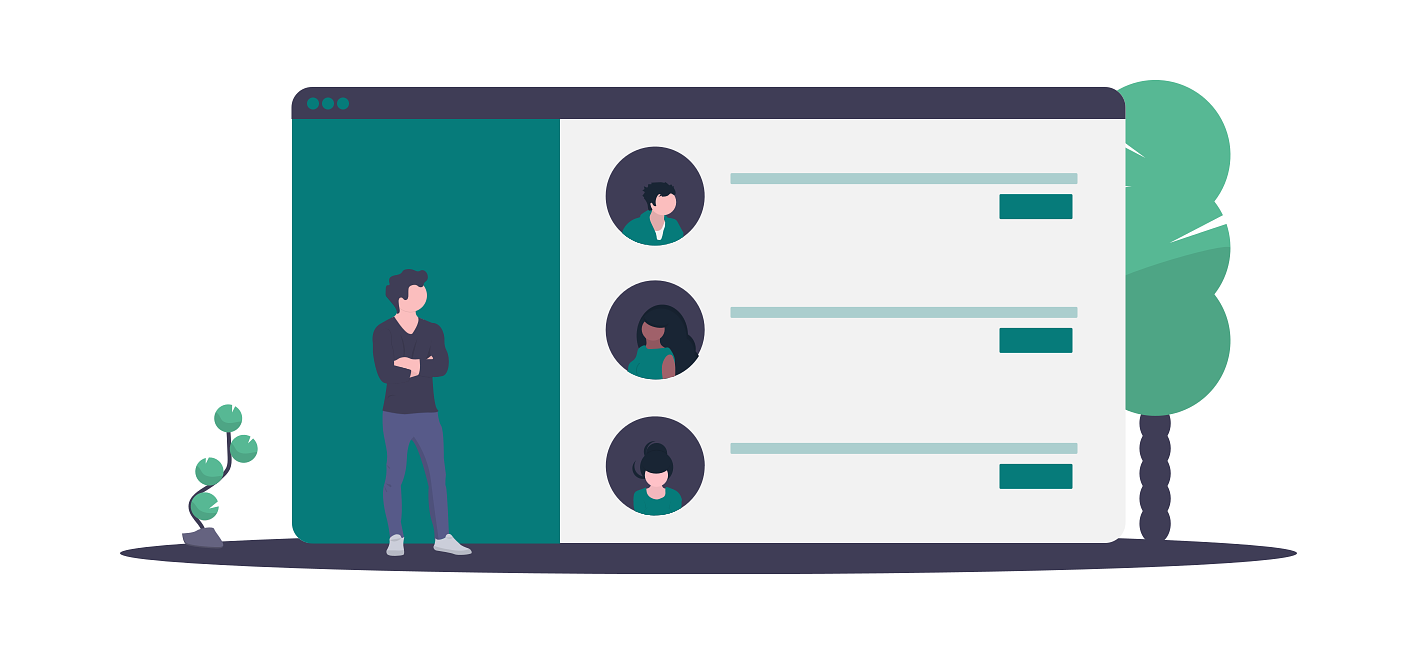
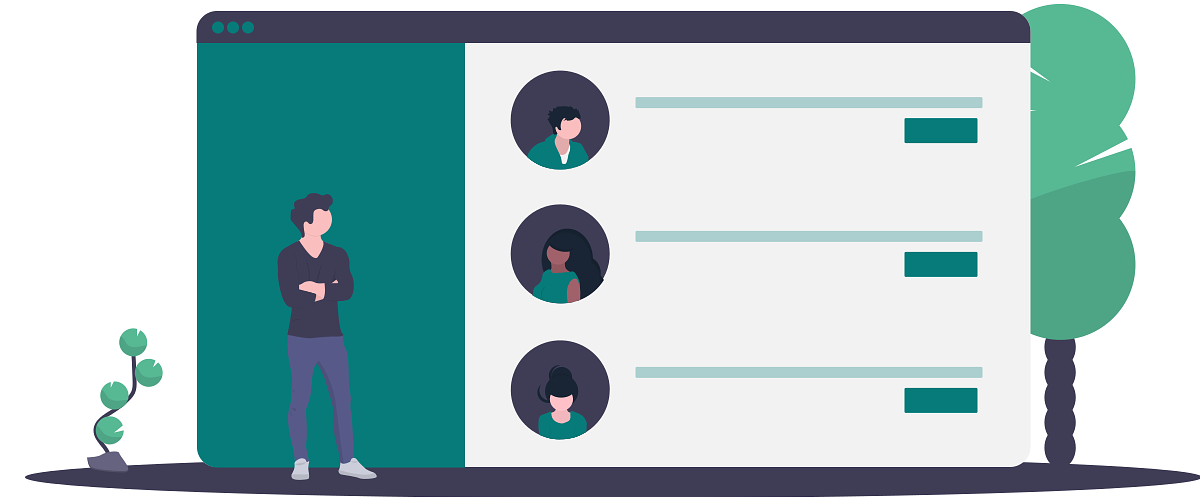
crop welcome page image

diff --git a/src/screens/WelcomeScreen.js b/src/screens/WelcomeScreen.js
@@ -1,5 +1,5 @@
 import React from 'react'
-import { View, Text, StyleSheet,Image, TouchableOpacity } from 'react-native'
+import { View, Text, StyleSheet,Image } from 'react-native'
 import Button from '../components/button'
 const WelcomeScreen = ({navigation})=>{
     return <View style={styles.container}>
@@ -17,13 +17,12 @@ const styles = StyleSheet.create({
     container: {
         flex: 1,
         alignItems: 'center', 
-        justifyContent: "center",
+        justifyContent: "space-evenly",
         marginHorizontal: 50
     },
     image:{
         width: 300,
-        height: 300,
-        borderRadius: 50
+        height: 150,
     },
     
     welcomeMessage:{

diff --git a/App.js b/App.js
@@ -37,12 +37,16 @@ const CreateProfileNavigator = createStackNavigator({
   headerLayoutPreset: "center"
 });
 
+// const AppNavigator = createStackNavigator({
+
+// });
+
 const Navigator = createSwitchNavigator({
   Home: WelcomeScreen,
   Register: RegisterScreen,
   Login: LoginScreen,
   CreateProfile: CreateProfileNavigator,
-  ProfileSuccess: CreateProfileSuccessScreen
+  ProfileSuccess: CreateProfileSuccessScreen,
 })
 
 export default createAppContainer(Navigator)
